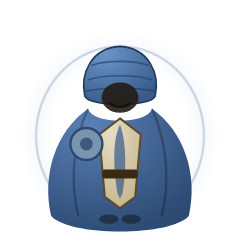
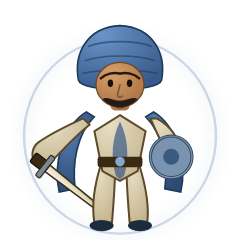
Redesign character art: face, arms, sword, legs; show portraits on select
Replaces the faceless turban-blob character art with actual illustrated
figures: visible face (eyes, mustache), arms with a held talwar, legs,
and a dynamic stance, for all four companions. Each keeps a distinguishing
prop/color (Shivaji: royal sarpech jewel; Tanaji: sheathed backup blade;
Bajiprabhu: round shield; Netaji: riding crop).

Tanaji Malusare's palette changed from green to a deep orange-red to
match the rest of the cast and drop green from the roster entirely.

The character-select screen ("Choose Your Commander") now renders each
companion's actual portrait in a circular frame instead of a generic
emoji icon, so players see the real art before picking.

diff --git a/game/js/player.js b/game/js/player.js
@@ -25,7 +25,7 @@ Game.Player = (function () {
   // held blade's color and the Camp selection UI's highlight.
   const CHARACTERS = [
     { id: 'bladeHunter', name: 'Shivaji Maharaj',     icon: '👑', image: 'assets/characters/bladeHunter.png', accentColor: '#ff8c1a' },
-    { id: 'shadowRogue',  name: 'Tanaji Malusare',     icon: '🦁', image: 'assets/characters/shadowRogue.png', accentColor: '#3a7d44' },
+    { id: 'shadowRogue',  name: 'Tanaji Malusare',     icon: '🦁', image: 'assets/characters/shadowRogue.png', accentColor: '#d1481f' },
     { id: 'ironWarden',   name: 'Bajiprabhu Deshpande', icon: '🛡', image: 'assets/characters/ironWarden.png', accentColor: '#4a6fa5' },
     { id: 'emberWitch',   name: 'Netaji Palkar',       icon: '🐎', image: 'assets/characters/emberWitch.png', accentColor: '#c9a227' }
   ];

diff --git a/game/js/ui-camp.js b/game/js/ui-camp.js
@@ -58,7 +58,7 @@ Game.UICamp = (function () {
     els.characterSelect.innerHTML = Game.Player.CHARACTERS.map(function (c) {
       return '' +
         '<button class="character-btn" data-character="' + c.id + '" style="--char-color:' + c.accentColor + '">' +
-          '<span class="character-icon">' + c.icon + '</span>' +
+          '<img class="character-portrait" src="' + c.image + '" alt="">' +
           '<span class="character-name">' + c.name + '</span>' +
         '</button>';
     }).join('');

diff --git a/game/css/style.css b/game/css/style.css
@@ -134,7 +134,17 @@ html, body {
   color: var(--text-primary);
 }
 
-.character-icon { font-size: 1.4rem; }
+.character-portrait {
+  width: 56px;
+  height: 56px;
+  border-radius: 50%;
+  background: radial-gradient(circle, rgba(255,255,255,0.05), transparent 70%);
+  border: 2px solid var(--border);
+}
+
+.character-btn.selected .character-portrait {
+  border-color: var(--char-color, var(--neon-crimson));
+}
 
 .character-name {
   font-size: 0.62rem;
